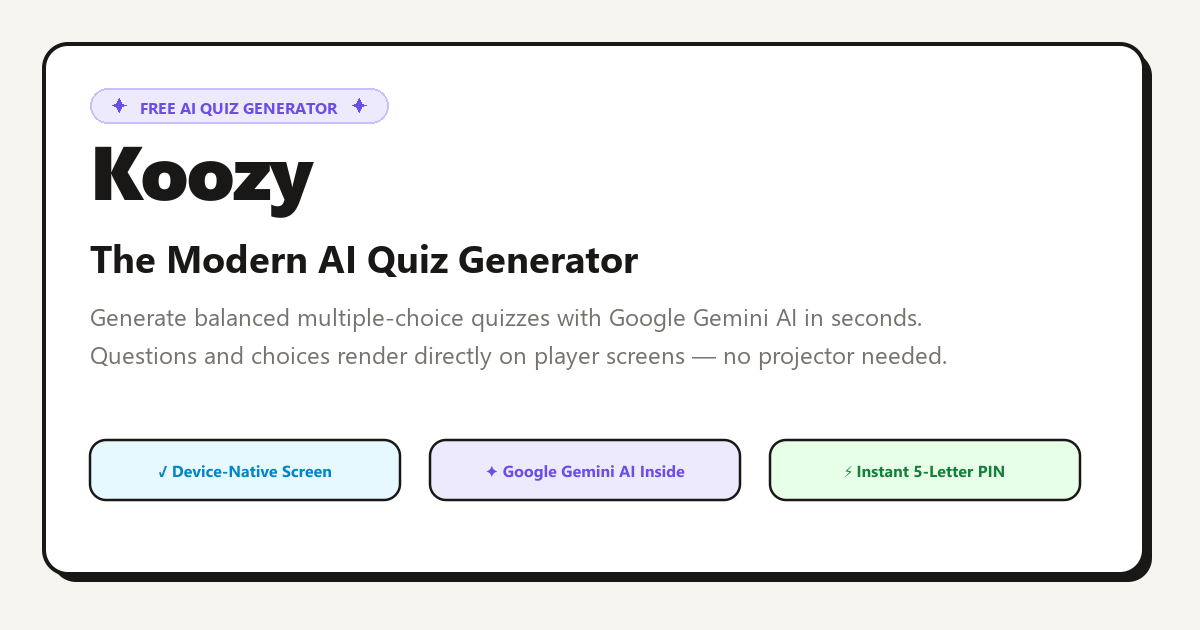
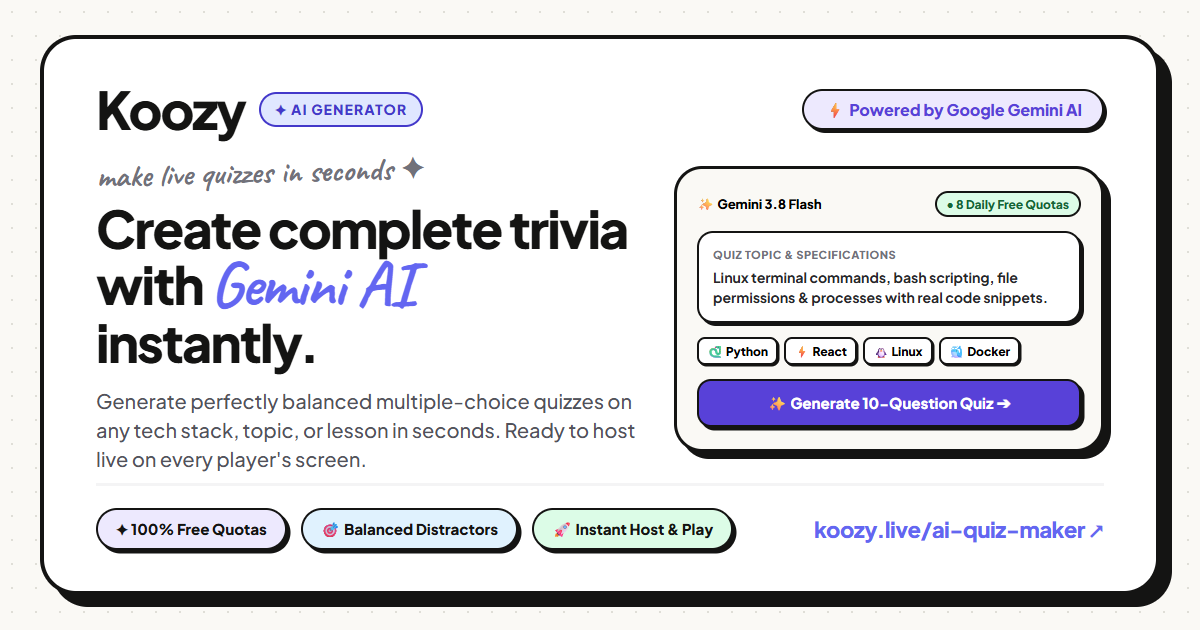
update high-def og-images and gitignore

Changed region(s): [[0.0308, 0.0302, 0.9867, 0.9651], [0.5858, 0.2413, 0.8942, 0.2714], [0.555, 0.2714, 0.6783, 0.3317]]

diff --git a/frontend/src/components/DevIcon.jsx b/frontend/src/components/DevIcon.jsx
@@ -1,0 +1,166 @@
+import React from 'react';
+import { Terminal, Code2, Sparkles, BookOpen } from 'lucide-react';
+
+/**
+ * Registry of Devicon mappings for common tech topics, programming languages,
+ * frameworks, and tools.
+ */
+export const DEVICON_MAP = [
+  { match: ['python', 'py', 'django', 'flask', 'fastapi'], iconClass: 'devicon-python-plain colored', label: 'Python', color: '#3776AB', bg: '#e8f2fc' },
+  { match: ['javascript', 'js', 'es6', 'ecmascript'], iconClass: 'devicon-javascript-plain colored', label: 'JavaScript', color: '#e5a00d', bg: '#fefde8' },
+  { match: ['typescript', 'ts'], iconClass: 'devicon-typescript-plain colored', label: 'TypeScript', color: '#3178C6', bg: '#e8f1fc' },
+  { match: ['react', 'reactjs', 'react native', 'jsx'], iconClass: 'devicon-react-original colored', label: 'React', color: '#00b4d8', bg: '#e6faff' },
+  { match: ['html', 'html5', 'web', 'frontend'], iconClass: 'devicon-html5-plain colored', label: 'HTML5', color: '#E34F26', bg: '#feebe6' },
+  { match: ['css', 'css3', 'styles', 'sass', 'scss'], iconClass: 'devicon-css3-plain colored', label: 'CSS3', color: '#1572B6', bg: '#e8f1f8' },
+  { match: ['tailwind', 'tailwindcss'], iconClass: 'devicon-tailwindcss-original colored', label: 'Tailwind CSS', color: '#06B6D4', bg: '#e6fbfd' },
+  { match: ['node', 'nodejs', 'npm'], iconClass: 'devicon-nodejs-plain colored', label: 'Node.js', color: '#339933', bg: '#eaf6ea' },
+  { match: ['docker', 'container', 'devops'], iconClass: 'devicon-docker-plain colored', label: 'Docker', color: '#2496ED', bg: '#e6f4fc' },
+  { match: ['git', 'github', 'gitlab', 'version control'], iconClass: 'devicon-git-plain colored', label: 'Git', color: '#F05032', bg: '#feeee9' },
+  { match: ['rust', 'cargo'], iconClass: 'devicon-rust-plain colored', label: 'Rust', color: '#000000', bg: '#f0f0f0' },
+  { match: ['go', 'golang'], iconClass: 'devicon-go-original-wordmark colored', label: 'Go', color: '#00ADD8', bg: '#e6f9fd' },
+  { match: ['java', 'spring', 'jvm'], iconClass: 'devicon-java-plain colored', label: 'Java', color: '#007396', bg: '#e6f3f8' },
+  { match: ['c++', 'cpp'], iconClass: 'devicon-cplusplus-plain colored', label: 'C++', color: '#00599C', bg: '#e6f0f8' },
+  { match: ['c#', 'csharp', '.net', 'dotnet'], iconClass: 'devicon-csharp-plain colored', label: 'C#', color: '#239120', bg: '#eaf6ea' },
+  { match: ['c', 'clang'], iconClass: 'devicon-c-plain colored', label: 'C', color: '#A8B9CC', bg: '#f2f4f8' },
+  { match: ['php', 'laravel', 'wordpress'], iconClass: 'devicon-php-plain colored', label: 'PHP', color: '#777BB4', bg: '#f0f1f8' },
+  { match: ['ruby', 'rails'], iconClass: 'devicon-ruby-plain colored', label: 'Ruby', color: '#CC342D', bg: '#feeceb' },
+  { match: ['swift', 'ios'], iconClass: 'devicon-swift-plain colored', label: 'Swift', color: '#F05138', bg: '#feebe7' },
+  { match: ['kotlin', 'android'], iconClass: 'devicon-kotlin-plain colored', label: 'Kotlin', color: '#7F52FF', bg: '#f2eeff' },
+  { match: ['sql', 'mysql', 'database', 'rdbms'], iconClass: 'devicon-mysql-plain colored', label: 'MySQL', color: '#4479A1', bg: '#ecf3f8' },
+  { match: ['postgres', 'postgresql'], iconClass: 'devicon-postgresql-plain colored', label: 'PostgreSQL', color: '#4169E1', bg: '#ecf1fc' },
+  { match: ['mongo', 'mongodb', 'nosql'], iconClass: 'devicon-mongodb-plain colored', label: 'MongoDB', color: '#47A248', bg: '#ecf6ec' },
+  { match: ['redis', 'cache'], iconClass: 'devicon-redis-plain colored', label: 'Redis', color: '#DC382D', bg: '#feeceb' },
+  { match: ['linux', 'ubuntu', 'unix', 'debian'], iconClass: 'devicon-linux-plain colored', label: 'Linux', color: '#2d3748', bg: '#fefae8' },
+  { match: ['bash', 'shell', 'terminal', 'sh', 'zsh'], iconClass: 'devicon-bash-plain colored', label: 'Bash', color: '#4EAA25', bg: '#ebfaeb' },
+  { match: ['aws', 'amazon', 'cloud'], iconClass: 'devicon-amazonwebservices-plain-wordmark colored', label: 'AWS', color: '#FF9900', bg: '#fff7e6' },
+  { match: ['vue', 'vuejs'], iconClass: 'devicon-vuejs-plain colored', label: 'Vue.js', color: '#4FC08D', bg: '#ecf9f3' },
+  { match: ['angular', 'angularjs'], iconClass: 'devicon-angularjs-plain colored', label: 'Angular', color: '#DD0031', bg: '#fee6eb' },
+  { match: ['next', 'nextjs'], iconClass: 'devicon-nextjs-plain colored', label: 'Next.js', color: '#000000', bg: '#f0f0f0' },
+  { match: ['graphql'], iconClass: 'devicon-graphql-plain colored', label: 'GraphQL', color: '#E10098', bg: '#fde6f4' },
+  { match: ['kubernetes', 'k8s'], iconClass: 'devicon-kubernetes-plain colored', label: 'Kubernetes', color: '#326CE5', bg: '#ecf2fc' },
+  { match: ['flutter', 'dart'], iconClass: 'devicon-flutter-plain colored', label: 'Flutter', color: '#02569B', bg: '#e6f0f8' },
+  { match: ['figma', 'design', 'ui', 'ux'], iconClass: 'devicon-figma-plain colored', label: 'Figma', color: '#F24E1E', bg: '#feece8' },
+  { match: ['ai', 'machine learning', 'data science', 'deep learning', 'ml', 'neural'], iconClass: 'devicon-tensorflow-line colored', label: 'AI / ML', color: '#FF6F00', bg: '#fff3e6' },
+];
+
+/**
+ * Popular presets for category selection & AI generation shortcuts.
+ */
+export const POPULAR_DEV_CATEGORIES = [
+  { name: 'Python', icon: 'devicon-python-plain colored', color: '#3776AB', prompt: 'Python core concepts, data structures, and functions' },
+  { name: 'JavaScript', icon: 'devicon-javascript-plain colored', color: '#e5a00d', prompt: 'Modern JavaScript (ES6+), async/await, closures, and DOM' },
+  { name: 'React', icon: 'devicon-react-original colored', color: '#00b4d8', prompt: 'React hooks, state management, components, and lifecycle' },
+  { name: 'Web Dev', icon: 'devicon-html5-plain colored', color: '#E34F26', prompt: 'HTML5, CSS layout, responsive design, and browser APIs' },
+  { name: 'Docker & DevOps', icon: 'devicon-docker-plain colored', color: '#2496ED', prompt: 'Docker containers, images, compose, and CI/CD basics' },
+  { name: 'Git & GitHub', icon: 'devicon-git-plain colored', color: '#F05032', prompt: 'Git branching, commits, merging, rebasing, and remote repos' },
+  { name: 'SQL & Databases', icon: 'devicon-postgresql-plain colored', color: '#4169E1', prompt: 'SQL queries, joins, indexes, transactions, and database design' },
+  { name: 'Data Structures', icon: 'devicon-cplusplus-plain colored', color: '#00599C', prompt: 'Arrays, linked lists, trees, graphs, sorting, and algorithms' },
+  { name: 'Linux & Terminal', icon: 'devicon-linux-plain colored', color: '#2d3748', prompt: 'Linux commands, permissions, bash scripting, and processes' },
+  { name: 'AI & Machine Learning', icon: 'devicon-tensorflow-line colored', color: '#FF6F00', prompt: 'Machine learning fundamentals, neural networks, and model training' },
+];
+
+/**
+ * Intelligently resolves a keyword/category/title to a Devicon definition.
+ */
+export function resolveDevIcon(query = '') {
+  if (!query || typeof query !== 'string') {
+    return {
+      iconClass: 'devicon-devicon-plain colored',
+      label: 'Quiz',
+      color: '#6c4de8',
+      bg: '#eeeafd',
+      isTech: false,
+    };
+  }
+
+  const clean = query.toLowerCase().trim();
+  const words = clean.split(/[\s,._/\\-]+/).filter(Boolean);
+
+  // 1. Direct word or substring match safely without raw regex
+  for (const item of DEVICON_MAP) {
+    for (const m of item.match) {
+      if (clean === m || clean.includes(m) || words.includes(m)) {
+        return { ...item, isTech: true };
+      }
+    }
+  }
+
+  return {
+    iconClass: 'devicon-devicon-plain colored',
+    label: query,
+    color: '#6c4de8',
+    bg: '#eeeafd',
+    isTech: false,
+  };
+}
+
+/**
+ * DevIcon - renders a devicon font icon or fallback icon
+ */
+export default function DevIcon({ name, className = '', size = 'text-xl', colored = true, fallback = null }) {
+  const resolved = resolveDevIcon(name);
+
+  // If name matches a specific devicon class directly (e.g. "devicon-python-plain")
+  const directClass = name && typeof name === 'string' && name.startsWith('devicon-') ? name : null;
+  const targetClass = directClass || resolved.iconClass;
+
+  return (
+    <i
+      className={`${targetClass} ${size} ${className} inline-flex items-center justify-center align-middle transition-transform`}
+      title={resolved.label || name}
+      aria-label={resolved.label || name}
+    />
+  );
+}
+
+/**
+ * TechBadge - A sleek, professional pill badge with Devicon + title.
+ */
+export function TechBadge({
+  name,
+  size = 'md',
+  showLabel = true,
+  active = false,
+  onClick = null,
+  className = '',
+}) {
+  const resolved = resolveDevIcon(name);
+
+  const sizeClasses = {
+    xs: 'px-2 py-0.5 text-[10px] gap-1',
+    sm: 'px-2.5 py-1 text-xs gap-1.5',
+    md: 'px-3 py-1.5 text-xs font-bold gap-2',
+    lg: 'px-4 py-2 text-sm font-extrabold gap-2.5',
+  };
+
+  const iconSizes = {
+    xs: 'text-xs',
+    sm: 'text-sm',
+    md: 'text-base',
+    lg: 'text-lg',
+  };
+
+  const isClickable = Boolean(onClick);
+
+  return (
+    <button
+      type={isClickable ? 'button' : undefined}
+      onClick={onClick}
+      disabled={!isClickable}
+      className={`inline-flex items-center rounded-xl font-bold transition-all border ${sizeClasses[size] || sizeClasses.md} ${
+        active
+          ? 'bg-[#191817] text-white border-[#191817] shadow-[2px_2px_0_#6c4de8] -translate-y-0.5'
+          : isClickable
+          ? 'bg-white hover:bg-[#fffdf7] border-[#d8d3ca] hover:border-[#191817] text-[#191817] hover:shadow-[2px_2px_0_#191817] hover:-translate-y-0.5 cursor-pointer'
+          : 'bg-[#fffdf7] border-[#d8d3ca] text-[#191817] shadow-xs'
+      } ${className}`}
+    >
+      <i className={`${resolved.iconClass} ${iconSizes[size] || iconSizes.md} shrink-0`} />
+      {showLabel && (
+        <span className="truncate tracking-tight">
+          {resolved.label || name}
+        </span>
+      )}
+    </button>
+  );
+}

diff --git a/frontend/src/components/CodeQuestionFormatter.jsx b/frontend/src/components/CodeQuestionFormatter.jsx
@@ -1,0 +1,154 @@
+import React from 'react';
+import DevIcon, { resolveDevIcon } from './DevIcon';
+import { Terminal } from 'lucide-react';
+
+/**
+ * Parses and renders question or option text.
+ * If code fences (```lang ... ```) or inline code (`code`) are detected,
+ * it formats them in a gorgeous developer code terminal card.
+ */
+export default function CodeQuestionFormatter({ text, isOption = false, className = '' }) {
+  if (!text || typeof text !== 'string') return null;
+
+  // Check if text contains fenced code blocks
+  const codeBlockRegex = /```([a-zA-Z0-9_-]*)\n([\s\S]*?)```/g;
+  const hasFencedCode = codeBlockRegex.test(text);
+
+  if (hasFencedCode) {
+    codeBlockRegex.lastIndex = 0; // reset
+    const parts = [];
+    let lastIndex = 0;
+    let match;
+
+    while ((match = codeBlockRegex.exec(text)) !== null) {
+      if (match.index > lastIndex) {
+        parts.push({
+          type: 'text',
+          content: text.slice(lastIndex, match.index),
+        });
+      }
+
+      parts.push({
+        type: 'code',
+        language: match[1] || 'code',
+        code: match[2].trim(),
+      });
+
+      lastIndex = match.index + match[0].length;
+    }
+
+    if (lastIndex < text.length) {
+      parts.push({
+        type: 'text',
+        content: text.slice(lastIndex),
+      });
+    }
+
+    return (
+      <div className={`space-y-3 ${className}`}>
+        {parts.map((p, idx) => {
+          if (p.type === 'text') {
+            return (
+              <div key={idx} className="leading-snug">
+                {renderInlineFormatted(p.content)}
+              </div>
+            );
+          }
+
+          const devicon = resolveDevIcon(p.language);
+
+          return (
+            <div
+              key={idx}
+              className="kz-code-block overflow-hidden my-3 text-left shadow-md border-2 border-zinc-700/80 rounded-xl"
+            >
+              {/* Code Terminal Top Bar */}
+              <div className="flex items-center justify-between px-3.5 py-1.5 bg-[#18181b] border-b border-zinc-800 text-xs text-zinc-400">
+                <div className="flex items-center gap-1.5">
+                  <span className="w-2.5 h-2.5 rounded-full bg-[#ef4444]/80 inline-block"></span>
+                  <span className="w-2.5 h-2.5 rounded-full bg-[#f59e0b]/80 inline-block"></span>
+                  <span className="w-2.5 h-2.5 rounded-full bg-[#10b981]/80 inline-block"></span>
+                </div>
+
+                <div className="flex items-center gap-1.5 font-mono font-bold text-zinc-300 text-[11px]">
+                  <DevIcon name={p.language} size="text-sm" />
+                  <span className="capitalize">{p.language || 'code'}</span>
+                </div>
+              </div>
+
+              {/* Code Body */}
+              <pre className="p-4 text-xs sm:text-sm font-mono overflow-x-auto text-emerald-300 leading-relaxed scrollbar-thin">
+                <code>{p.code}</code>
+              </pre>
+            </div>
+          );
+        })}
+      </div>
+    );
+  }
+
+  // Check if text has multiple lines and look like code indentation
+  const lines = text.split('\n');
+  const looksLikeIndentedCode = lines.length > 2 && lines.some((l) => /^\s{2,}/.test(l) || /[{}();=>]/.test(l));
+
+  if (!isOption && looksLikeIndentedCode) {
+    return (
+      <div className={`space-y-2 ${className}`}>
+        <p className="font-extrabold">{lines[0]}</p>
+        <div className="kz-code-block overflow-hidden text-left border border-zinc-800 rounded-xl">
+          <pre className="p-3 text-xs sm:text-sm font-mono overflow-x-auto text-emerald-300">
+            <code>{lines.slice(1).join('\n')}</code>
+          </pre>
+        </div>
+      </div>
+    );
+  }
+
+  // Standard inline formatting with backtick highlighting
+  return (
+    <span className={className}>
+      {renderInlineFormatted(text, isOption)}
+    </span>
+  );
+}
+
+/**
+ * Handles inline `code` highlights and emphasis.
+ */
+function renderInlineFormatted(str, isOption = false) {
+  if (!str) return null;
+  const inlineCodeRegex = /`([^`]+)`/g;
+  if (!inlineCodeRegex.test(str)) {
+    return str;
+  }
+
+  inlineCodeRegex.lastIndex = 0;
+  const tokens = [];
+  let lastIdx = 0;
+  let match;
+
+  while ((match = inlineCodeRegex.exec(str)) !== null) {
+    if (match.index > lastIdx) {
+      tokens.push(str.slice(lastIdx, match.index));
+    }
+    tokens.push(
+      <code
+        key={match.index}
+        className={`font-mono px-1.5 py-0.5 rounded text-[0.88em] font-semibold border ${
+          isOption
+            ? 'bg-black/10 border-black/20 text-current'
+            : 'bg-zinc-800 text-cyan-300 border-zinc-700'
+        }`}
+      >
+        {match[1]}
+      </code>
+    );
+    lastIdx = match.index + match[0].length;
+  }
+
+  if (lastIdx < str.length) {
+    tokens.push(str.slice(lastIdx));
+  }
+
+  return tokens;
+}
